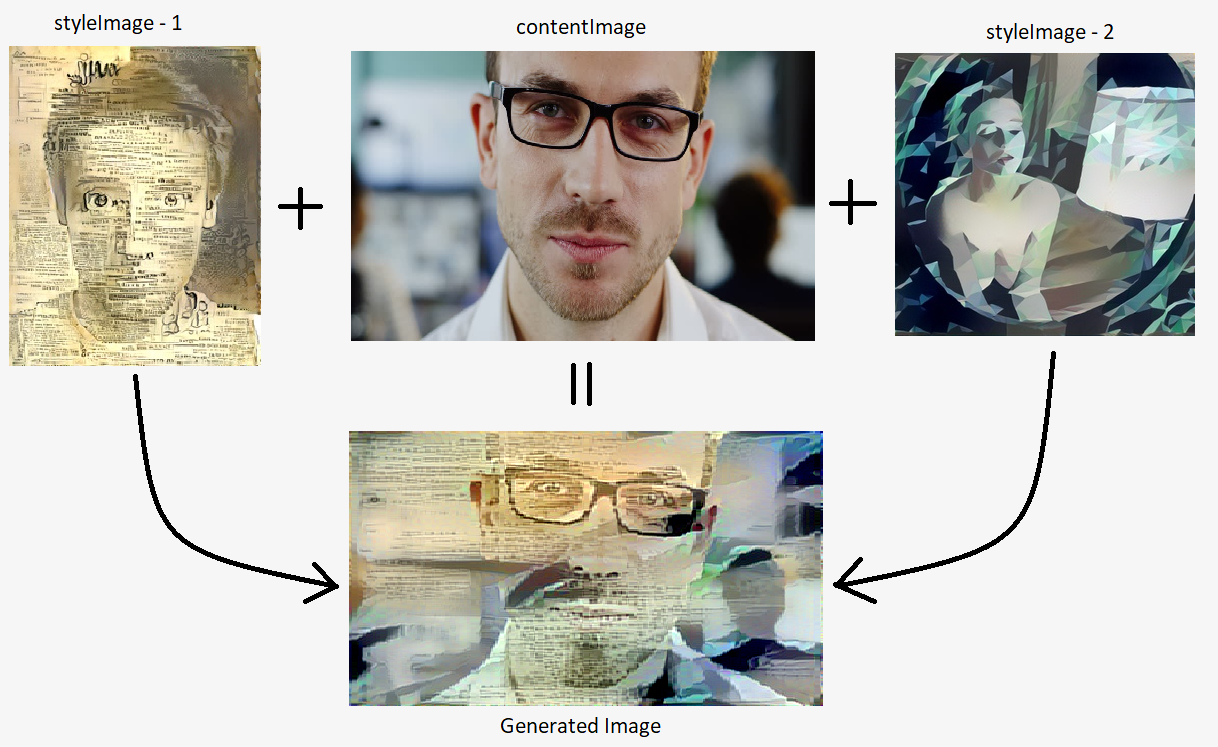
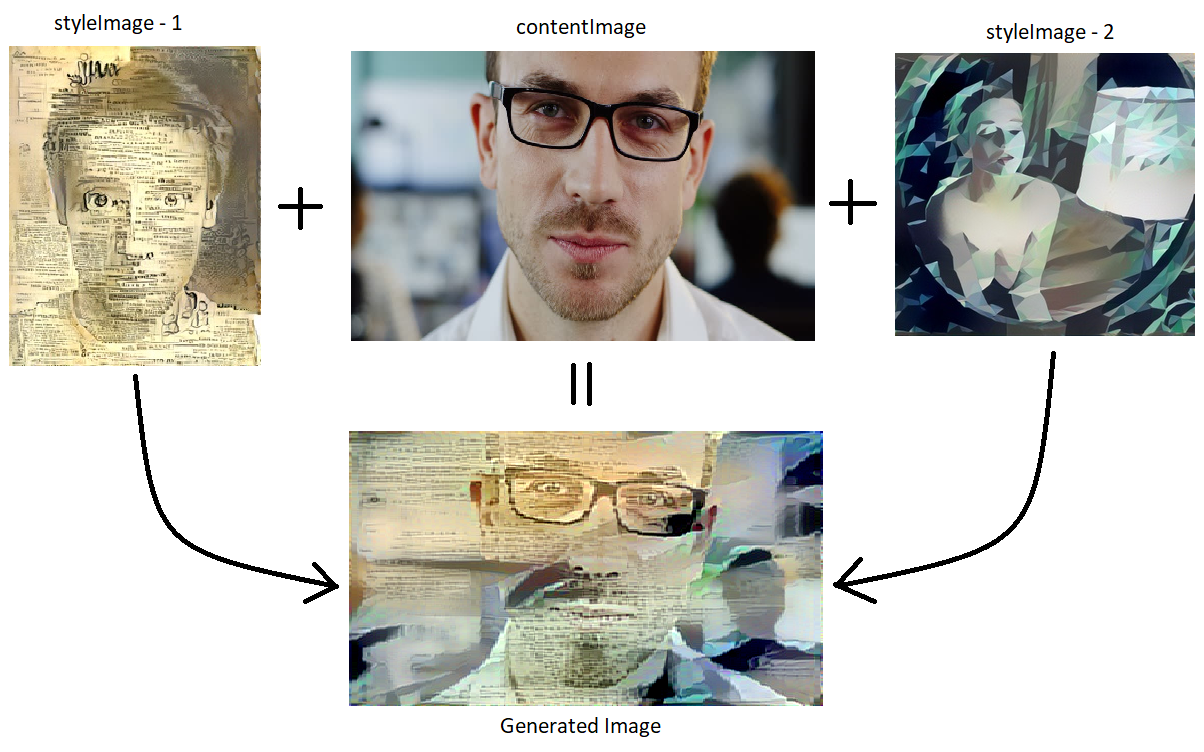
Added proper Image

Changed region(s): [[0.0, 0.0, 1.0, 0.9853], [0.4302, 0.0308, 0.5532, 0.0616], [0.799, 0.7082, 0.8297, 0.739]]

diff --git a/Style-Art-Generation/README.md b/Style-Art-Generation/README.md
@@ -12,7 +12,7 @@ The code above is a respose to [this videos](https://www.youtube.com/watch?v=Oex
 use the ```pip install <package>``` command to install the dependencies.
 
 ## Result
-![styletransfer](https://user-images.githubusercontent.com/34591573/34319405-bc591092-e807-11e7-901d-bb676666b921.png)
+![styletransfer](https://user-images.githubusercontent.com/34591573/34319656-ab4ca7ae-e80d-11e7-8c39-a720610cac48.png)
 These results turned out to be pretty nice
 
 # Simplified Approach
